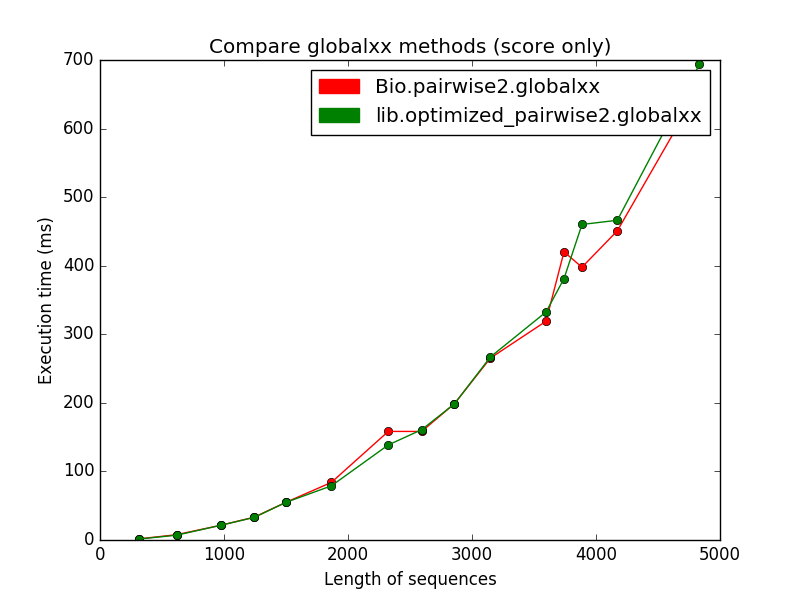
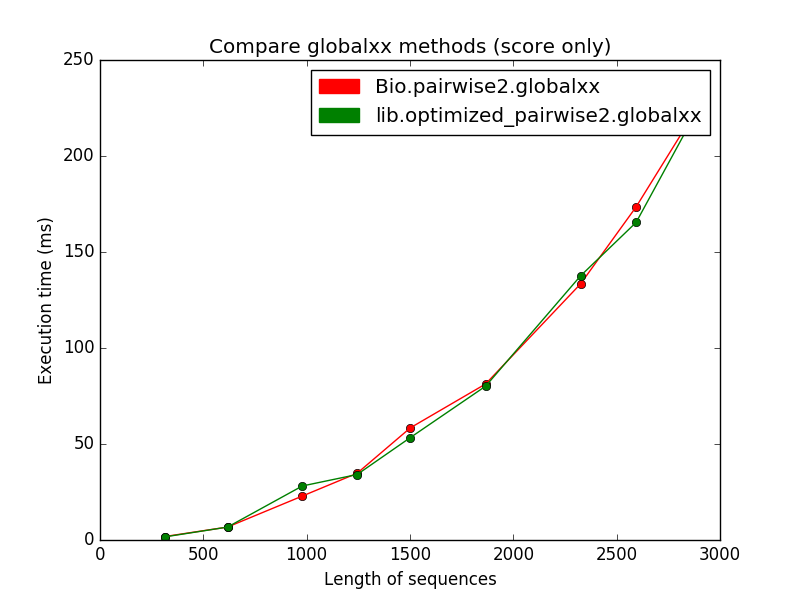
Fix global alignment working slower than original, plot comparison results

diff --git a/lib/optimized_pairwise2.py b/lib/optimized_pairwise2.py
@@ -1,22 +1,14 @@
 import itertools
 import Bio.pairwise2 as pairwise2
 
-def _find_start(score_matrix, align_globally, best_score): 
+def _find_start(score_matrix, best_score): 
     """Return a list of starting points (score, (row, col)). 
     Indicating every possible place to start the tracebacks. 
     """ 
     nrows, ncols = len(score_matrix), len(score_matrix[0]) 
 
-    if align_globally: 
-        return [(score_matrix[-1][-1], (nrows - 1, ncols - 1))]
-    else: 
-        # starts = [] 
-        # for row in range(nrows): 
-            # for col in range(ncols): 
-                # score = score_matrix[row][col] 
-                # starts.append((score, (row, col))) 
-        return [(best_score, (row, col)) for row, col in itertools.product(xrange(nrows), xrange(ncols))
-                if score_matrix[row][col] == best_score]
+    return [(best_score, (row, col)) for row, col in itertools.product(xrange(nrows), xrange(ncols))
+            if score_matrix[row][col] == best_score]
 
 def _align(sequenceA, sequenceB, match_fn, gap_A_fn, gap_B_fn, 
            penalize_extend_when_opening, penalize_end_gaps, 
@@ -56,16 +48,17 @@ def _align(sequenceA, sequenceB, match_fn, gap_A_fn, gap_B_fn,
 
     # Find the highest score. 
     nrows, ncols = len(score_matrix), len(score_matrix[0]) 
-    best_score = max(score_matrix[row][col] for row, col in itertools.product(xrange(nrows), xrange(ncols)))
  
-    # If they only want the score, then return it. 
-    if score_only: 
-        return best_score 
+    if align_globally:
+        starts = [(score_matrix[nrows-1][ncols-1], (nrows-1,ncols-1))]
+        if score_only: 
+            return starts[0][0]
+    else:
+        best_score = max(score_matrix[row][col] for row, col in itertools.product(xrange(nrows), xrange(ncols)))
+        if score_only: 
+            return best_score 
 
-    # Look for the proper starting point.
-    # Get list of all starting points with best score
-    # We use optimized version here
-    starts = _find_start(score_matrix, align_globally, best_score) 
+        starts = _find_start(score_matrix, best_score) 
 
     return pairwise2._recover_alignments(sequenceA, sequenceB, starts, score_matrix, 
                                          trace_matrix, align_globally, gap_char, 

diff --git a/test_optimization.py b/test_optimization.py
@@ -67,10 +67,18 @@ if __name__ == "__main__":
     # run_compare_test("Test Bio.pairwise2 itself...", [pairwise2.align.globalxx, pairwise2.align.localxx])
     # run_compare_test("Test Bio.pairwise2 itself (score only)...", [pairwise2.align.globalxx, pairwise2.align.localxx], score_only=True)
 
-    description = "Compare localxx methods (score only)"
-    print(description)
-    run_compare_test(description, [pairwise2.align.localxx, optimized_pairwise2.align.localxx], score_only=True)
+    # description = "Compare localxx methods (score only)"
+    # print(description)
+    # run_compare_test(description, [pairwise2.align.localxx, optimized_pairwise2.align.localxx], score_only=True)
 
-    description = "Compare localxx methods (including alignments)"
+    # description = "Compare localxx methods (including alignments)"
+    # print(description)
+    # run_compare_test(description, [pairwise2.align.localxx, optimized_pairwise2.align.localxx])
+
+    description = "Compare globalxx methods (score only)"
     print(description)
-    run_compare_test(description, [pairwise2.align.localxx, optimized_pairwise2.align.localxx])
+    run_compare_test(description, [pairwise2.align.globalxx, optimized_pairwise2.align.globalxx], score_only=True)
+
+    description = "Compare globalxx methods (including alignments)"
+    print(description)
+    run_compare_test(description, [pairwise2.align.globalxx, optimized_pairwise2.align.globalxx])
